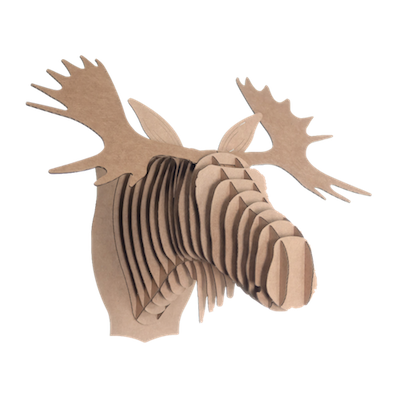
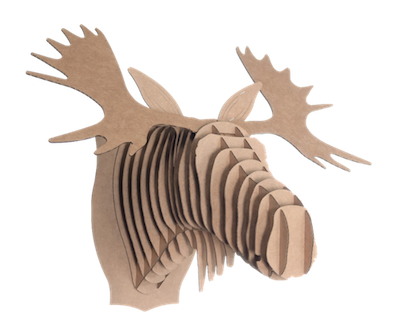
finalizes styling for navbar, product, and gallery divs with positioning, as well as adds hover effect over all clickable elements

diff --git a/css/styles.css b/css/styles.css
@@ -1,7 +1,7 @@
 body, html {
   margin: 0;
   padding: 0;
-  background: grey;
+  /*background: grey;*/
 }
 
 * {
@@ -9,9 +9,9 @@ body, html {
 }
 
 .wrap {
-  background: beige;
+  /*background: beige;*/
   width: 600px;
-  height: 1000px;
+  height: 825px;
   overflow: auto;
   position: relative;
 }
@@ -21,10 +21,14 @@ body, html {
 }
 
 .heads {
-  background: orange;
+  /*background: orange;*/
   float: left;
   padding-top: 5px;
+}
 
+.heads:hover {
+  cursor: pointer;
+  cursor: hand;
 }
 
 .navbar {
@@ -32,8 +36,9 @@ body, html {
 }
 
 .navbarRight {
-  background: lightblue;
-  padding-bottom: 10px;
+  /*background: lightblue;*/
+  /*padding-bottom: 10px;*/
+  padding: 0;
   margin: 0;
   list-style: none;
   float: right;
@@ -41,30 +46,40 @@ body, html {
 
 .navbarRight li {
   display: inline-block;
-  vertical-align: middle;
+  vertical-align: bottom;
+  padding-left: 5px;
+  padding-right: 5px;
+  padding-top: 5px;
 }
 
 .search {
-  background: darkgrey;
+  /*background: darkgrey;*/
   /*width: 10px;*/
 }
 
-.profile {
-  background: purple;
+.profile:hover {
+  /*background: purple;*/
+  cursor: pointer;
+  cursor: hand;
 }
 
 .basket {
-  background: firebrick;
+  /*background: firebrick;*/
+  cursor: pointer;
+  cursor: hand;
 }
 
 .moose {
+  /*border: 1px solid gold;
+  border-radius: 75px;*/
   position: absolute;
   top: 50px;
-  left: 100px;
+  left: 70px;
 }
 
 .product {
-  background: lightpink;
+  /*background: lightpink;*/
+  height: 350px;
   float: left;
   position: relative;
   padding: 0;
@@ -72,8 +87,10 @@ body, html {
 }
 
 .moosehead {
-  background: yellow;
+  /*background: yellow;*/
+  position: absolute;
   left: 30px;
+  top: 50px;
 }
 
 .productName {
@@ -81,26 +98,32 @@ body, html {
   font-weight: bold;
   font-size: 20px;
   position: absolute;
-  left: 80px;
-  top: 340px;
+  left: 100px;
+  top: 10px;
+  width: 250px;
+  text-align: center;
 }
 
 .form {
-  background: cyan;
+  /*background: cyan;*/
   /*padding: 15px;*/
-  width: 375px;
+  position: absolute;
+  left: 32px;
+  top: 375px;
+  width: 370px;
   /*height: 20px;*/
   font-family: monospace;
   margin: 0;
-  padding-left: 25px;
+  padding-left: 30px;
   padding-top: 10px;
   /*float: right;*/
 }
 
-select, input {
+select, input, .qty {
   /*position: absolute;*/
   display: inline-block;
-  border: 2px solid black;
+  box-sizing: border-box;
+  /*border: 2px solid black;*/
   border-radius: 4px;
   font-family: monospace;
   margin: 0;
@@ -109,21 +132,24 @@ select, input {
 
 .qty {
   width: 20px;
-  display: inline-block;
-  margin: 0;
+  /*display: inline-block;
+  margin: 0;*/
 }
 
 .description {
-  background: lightblue;
-  width: 390px;
+  /*background: lightblue;*/
+  position: absolute;
+  top: 400px;
+  left: 25px;
+  width: 380px;
   height: 155px;
   text-align: left;
   vertical-align: middle;
-  padding-left: 10px;
+  padding-left: 20px;
 }
 
 h4 {
-  background: magenta;
+  /*background: magenta;*/
   padding-top: 18px;
   text-align: center;
   font-family: monospace;
@@ -132,7 +158,7 @@ h4 {
 }
 
 .desc {
-  background: lightgreen;
+  /*background: lightgreen;*/
   font-family: monospace;
   width: 350px;
   text-align: justify;
@@ -145,13 +171,14 @@ h4 {
   height: 300px;
   position: relative;
   top: 550px;
+  left: 25px;
 }
 
 .galleryPics {
   list-style: none;
   position: absolute;
   left: -20px;
-  /*top: 500px;*/
+  top: 40px;
 }
 
 .galleryPics li {
@@ -159,28 +186,67 @@ h4 {
   padding: 10px;
 }
 
-.giraffe {
-  background: teal;
+.galleryPics li:hover {
+  cursor: pointer;
+  cursor: hand;
+}
+
+.giraffe::before {
+  /*background: teal;*/
+  content: "Cardboard Giraffe Head $75.00";
+  font-family: monospace;
+  font-weight: bold;
+  text-align: center;
+  position: absolute;
+  left: 75px;
+  top: 135px;
+  width: 100px;
 }
 
 .giraffe img {
-  background: white;
+  /*background: white;*/
   position: absolute:
   left: 10px;
 }
 
 .rhino {
-  background: orange;
+  border-right: 1px solid gold;
+  border-left: 1px solid gold;
+}
+
+.rhino::before {
+  /*background: orange;*/
+  content: "Cardboard Rhino Head $75.00";
+  font-family: monospace;
+  font-weight: bold;
+  text-align: center;
+  position: absolute;
+  left: 240px;
+  top: 135px;
+  width: 100px;
 }
 
 .rhino img {
-  background: white;
+  /*background: white;*/
 }
 
-.ram {
-  background: purple;
+.ram::before {
+  /*background: purple;*/
+  content: "Cardboard Ram Head $70.00";
+  font-family: monospace;
+  font-weight: bold;
+  text-align: center;
+  position: absolute;
+  left: 410px;
+  top: 135px;
+  width: 100px;
 }
 
 .ram img {
-  background: white;
+  /*background: white;*/
+}
+
+input:hover {
+  cursor: pointer;
+  cursor: hand;
 }

diff --git a/index.html b/index.html
@@ -25,7 +25,8 @@
 
         <!-- product -->
         <div class="product">
-          <p class="productName">Cardboard Moose Head</p>
+          <p class="productName">Cardboard Moose Head $70.00</p>
+          <!-- <p class="price">$70.00</p> -->
           <img class="moosehead" src="img/moosehead.png" alt="Cardboard Moosehead"/>
         </div>
         <!-- product -->
@@ -59,9 +60,9 @@
         <!-- gallery -->
         <div class="gallery">
           <ul class="galleryPics">
-            <li class="giraffe"><img src="img/giraffehead.png" alt="Cardboard Giraffe Head"/><br><p>Cardboard Giraffe Head</p><br><p>$70.00-$85.00</p></li>
-            <li class="rhino"><img src="img/rhinohead.png" alt="Cardboard Rhino Head"/><br><p>Cardboard Rhino Head</p><br><p>$70.00-$85.00</p></li>
-            <li class="ram"><img src="img/ramhead.png" alt="Cardboard Ram Head"/><br><p>Cardboard Ram Head</p><br><p>$70.00-$85.00</p></li>
+            <li class="giraffe"><img src="img/giraffehead.png" alt="Cardboard Giraffe Head"/></li>
+            <li class="rhino"><img src="img/rhinohead.png" alt="Cardboard Rhino Head"/></li>
+            <li class="ram"><img src="img/ramhead.png" alt="Cardboard Ram Head"/></li>
           </ul>
         </div>
       <!-- gallery -->
